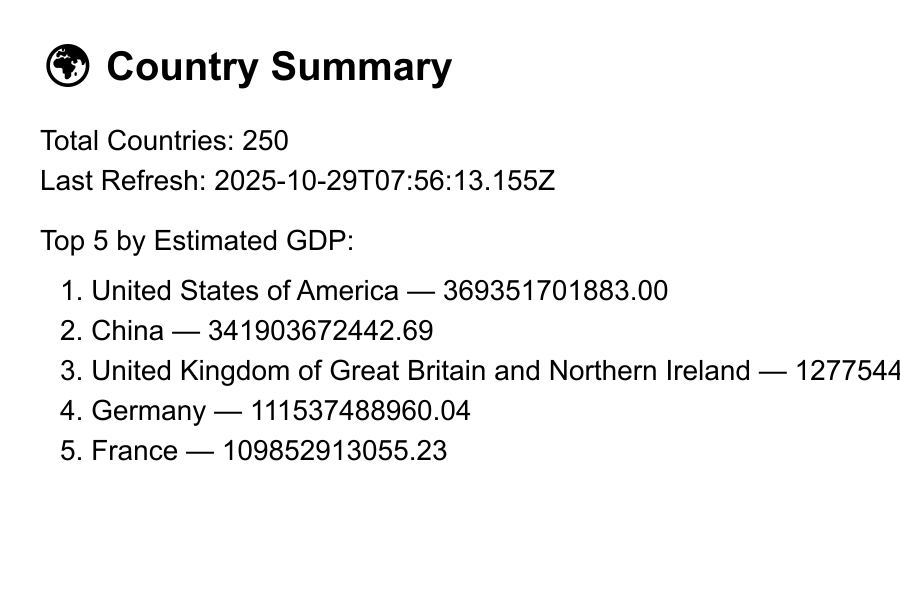
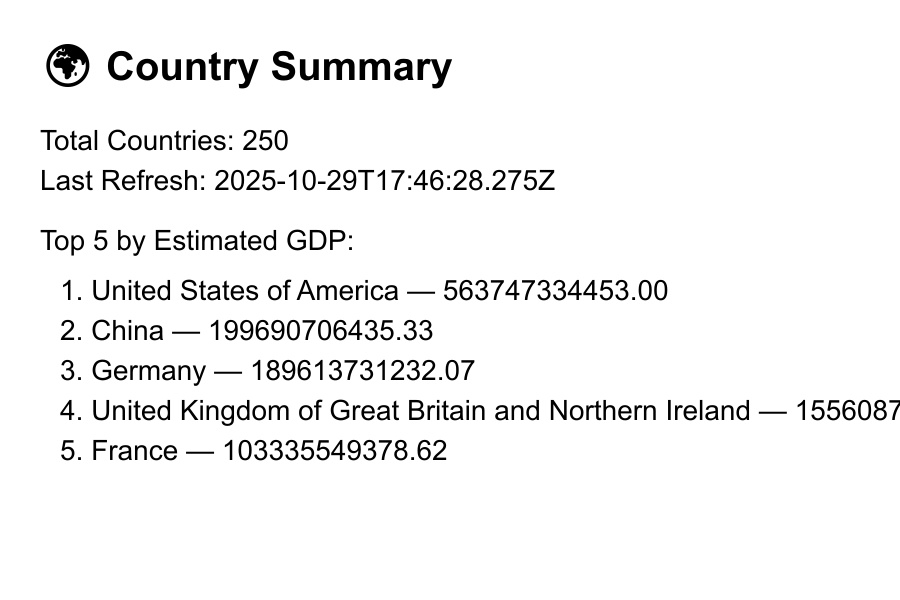
Minor changes on countries service and controller

diff --git a/src/countries/countries.service.ts b/src/countries/countries.service.ts
@@ -24,74 +24,72 @@ export class CountriesService {
     private countryModel: Model<Country>,
   ) {}
 
-  /**
-   * Fetch countries & exchange rates, update DB, generate summary image
-   */
   async refreshCountries(): Promise<{ message: string; total: number }> {
-    try {
-      const [countriesRes, exchangeRes] = await Promise.all([
-        axios.get(this.countriesUrl),
-        axios.get(this.exchangeUrl),
-      ]);
+  try {
+    const [countriesRes, exchangeRes] = await Promise.all([
+      axios.get(this.countriesUrl),
+      axios.get(this.exchangeUrl),
+    ]);
 
-      const countriesData = countriesRes.data;
-      const exchangeRates = exchangeRes.data.rates;
+    const countriesData = countriesRes.data;
+    const exchangeRates = exchangeRes.data.rates;
 
-      const ops = countriesData.map(async (country: any) => {
-        const name = country.name;
-        const capital = country.capital || null;
-        const region = country.region || null;
-        const population = country.population || 0;
-        const flag_url = country.flag || null;
-        const currency_code = country.currencies?.[0]?.code ?? null;
+    const ops = countriesData.map(async (country: any) => {
+      let name = country.name?.trim();
+      if (!name) return; // skip invalid entries
 
-        let exchange_rate = null;
-        let estimated_gdp = 0;
+      // normalize for consistency
+      name = name.replace(/\s*\(.*?\)\s*/g, '').trim(); // remove parentheses content (e.g., (Plurinational State of))
+      name = name.toLowerCase(); // make case-insensitive unique
 
-        if (currency_code && exchangeRates[currency_code]) {
-          exchange_rate = exchangeRates[currency_code];
-          const randomMultiplier = Math.floor(1000 + Math.random() * 1000);
-          estimated_gdp = (population * randomMultiplier) / exchange_rate;
-        }
+      const capital = country.capital || null;
+      const region = country.region || null;
+      const population = country.population || 0;
+      const flag_url = country.flag || null;
+      const currency_code = country.currencies?.[0]?.code ?? null;
 
-        await this.countryModel.updateOne(
-          { name: new RegExp(`^${name}$`, 'i') },
-          {
-            $set: {
-              name,
-              capital,
-              region,
-              population,
-              currency_code,
-              exchange_rate,
-              estimated_gdp,
-              flag_url,
-              last_refreshed_at: new Date(),
-            },
+      let exchange_rate = null;
+      let estimated_gdp = 0;
+
+      if (currency_code && exchangeRates[currency_code]) {
+        exchange_rate = exchangeRates[currency_code];
+        const randomMultiplier = Math.floor(1000 + Math.random() * 1000);
+        estimated_gdp = (population * randomMultiplier) / exchange_rate;
+      }
+
+      await this.countryModel.updateOne(
+        { name },
+        {
+          $set: {
+            name,
+            capital,
+            region,
+            population,
+            currency_code,
+            exchange_rate,
+            estimated_gdp,
+            flag_url,
+            last_refreshed_at: new Date(),
           },
-          { upsert: true },
-        );
-      });
-
-      await Promise.all(ops);
-
-      const total = await this.countryModel.countDocuments();
-      this.lastRefreshedAt = new Date().toISOString();
-
-      await this.generateSummaryImage(total);
-
-      return { message: 'Countries refreshed successfully', total };
-    } catch (err) {
-      throw new HttpException(
-        `Failed to refresh countries: ${err.message}`,
-        HttpStatus.BAD_REQUEST,
+        },
+        { upsert: true },
       );
-    }
-  }
+    });
 
-  /**
-   * Generate summary image using node-canvas
-   */
+    await Promise.all(ops);
+
+    const total = await this.countryModel.countDocuments();
+    this.lastRefreshedAt = new Date().toISOString();
+
+    return { message: 'Countries refreshed successfully', total };
+  } catch (err) {
+    throw new HttpException(
+      `Failed to refresh countries: ${err.message}`,
+      HttpStatus.BAD_REQUEST,
+    );
+  }
+}
+
   private async generateSummaryImage(totalCountries: number): Promise<void> {
     const topCountries = await this.countryModel
       .find({ estimated_gdp: { $ne: null } })
@@ -104,21 +102,17 @@ export class CountriesService {
     const canvas = createCanvas(width, height);
     const ctx = canvas.getContext('2d');
 
-    // Background
     ctx.fillStyle = '#ffffff';
     ctx.fillRect(0, 0, width, height);
 
-    // Header
     ctx.fillStyle = '#000000';
     ctx.font = 'bold 40px Arial';
     ctx.fillText('🌍 Country Summary', 40, 80);
 
-    // Summary text
     ctx.font = '28px Arial';
     ctx.fillText(`Total Countries: ${totalCountries}`, 40, 150);
     ctx.fillText(`Last Refresh: ${this.lastRefreshedAt}`, 40, 190);
 
-    // Top 5
     ctx.fillText('Top 5 by Estimated GDP:', 40, 250);
     let y = 300;
     topCountries.forEach((c, i) => {
@@ -138,9 +132,6 @@ export class CountriesService {
     await writeFile(outputPath, buffer);
   }
 
-  /**
-   * Return generated image or an error if missing
-   */
   async getSummaryImage(): Promise<Buffer | { error: string }> {
     const imagePath = join(process.cwd(), 'cache', 'summary.png');
     try {
@@ -151,7 +142,6 @@ export class CountriesService {
     }
   }
 
-  // 🔍 GET /countries/:name
   async findOne(name: string): Promise<Country> {
     const country = await this.countryModel
       .findOne({

diff --git a/src/schemas/country..schema.ts b/src/schemas/country..schema.ts
@@ -3,7 +3,7 @@ import { Document } from 'mongoose';
 
 @Schema({ timestamps: { createdAt: false, updatedAt: false } })
 export class Country extends Document {
-  @Prop({ required: true })
+  @Prop({ required: true, unique: true })
   name: string;
 
   @Prop()
@@ -33,7 +33,22 @@ export class Country extends Document {
 
 export const CountrySchema = SchemaFactory.createForClass(Country);
 
-CountrySchema.index(
-  { name: 1 },
-  { unique: true, collation: { locale: 'en', strength: 2 } },
-);
+
+CountrySchema.pre('save', function (next) {
+  if (this.name) {
+    this.name = this.name.trim().toLowerCase();
+  }
+  next();
+});
+
+
+CountrySchema.pre('findOneAndUpdate', function (next) {
+  const update = this.getUpdate() as any;
+  if (update?.$set?.name) {
+    update.$set.name = update.$set.name.trim().toLowerCase();
+  }
+  next();
+});
+
+
+CountrySchema.index({ name: 1 }, { unique: true });
